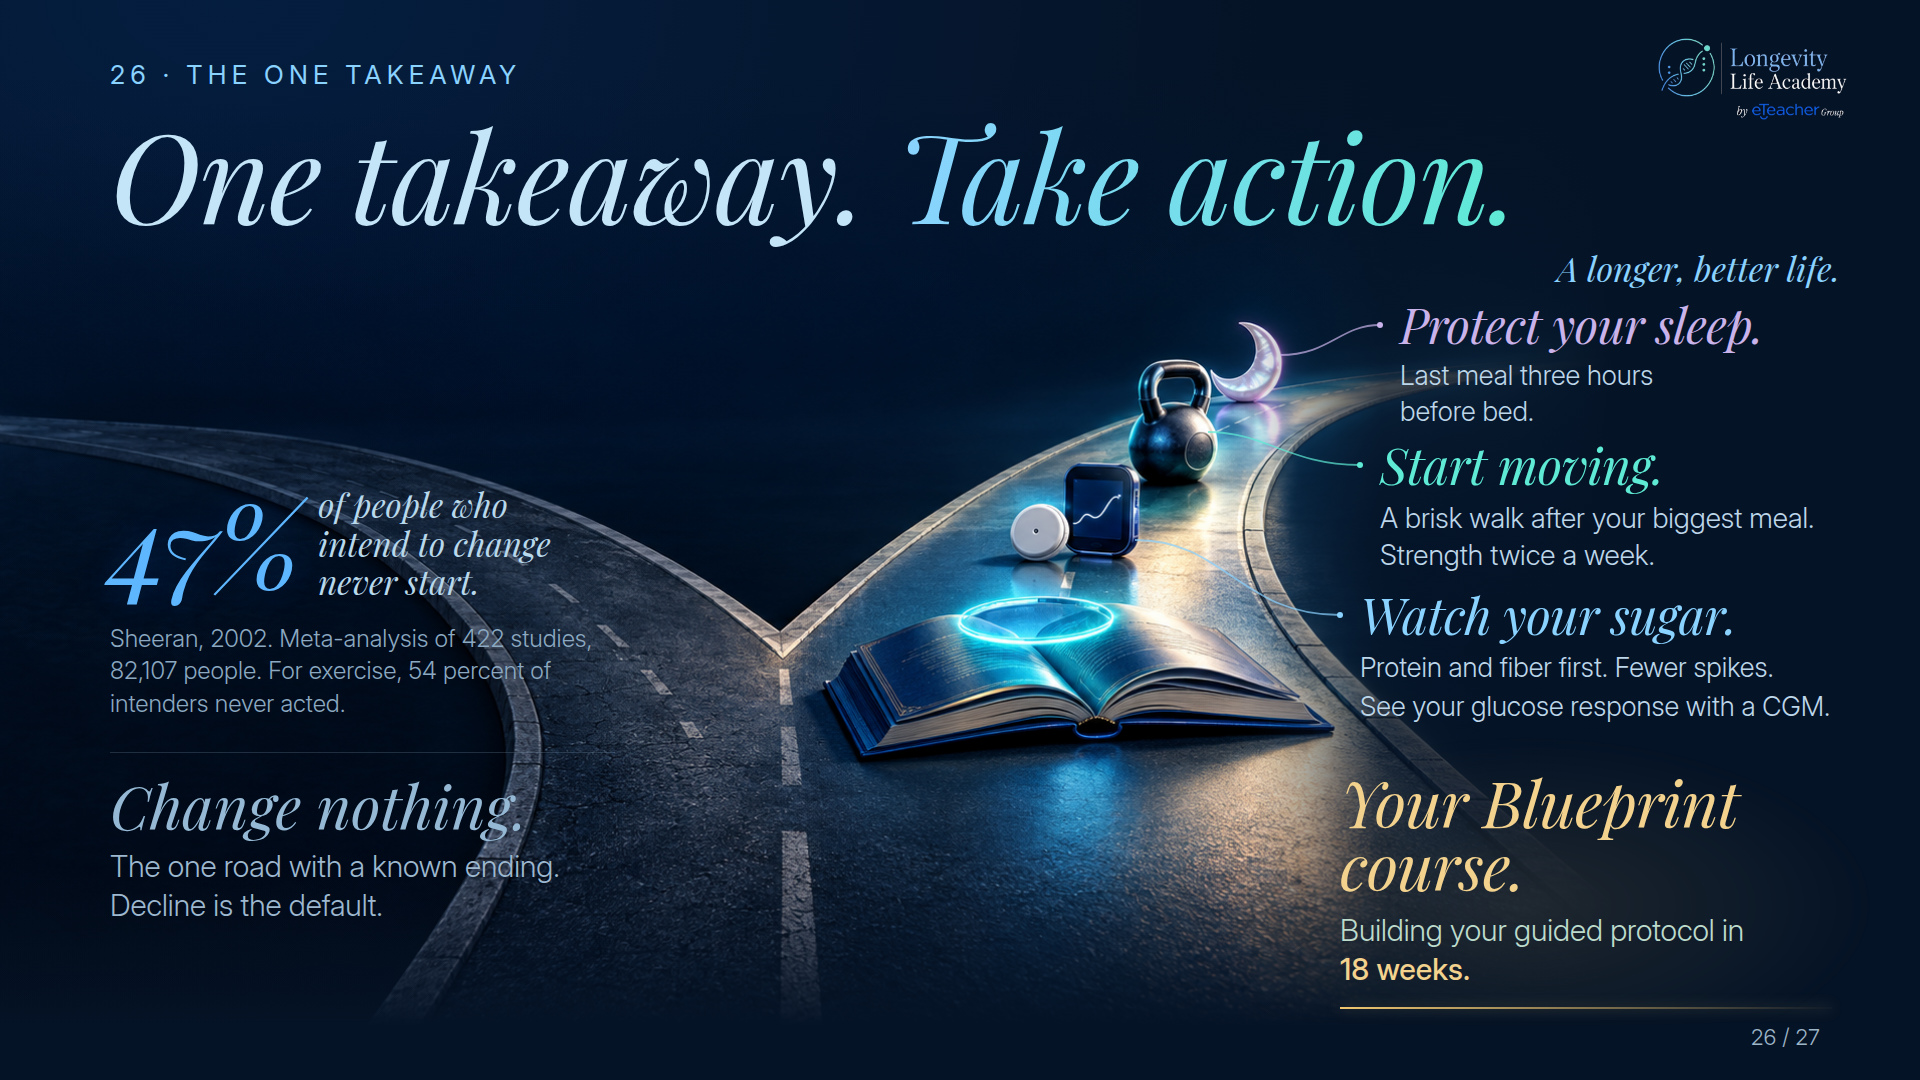
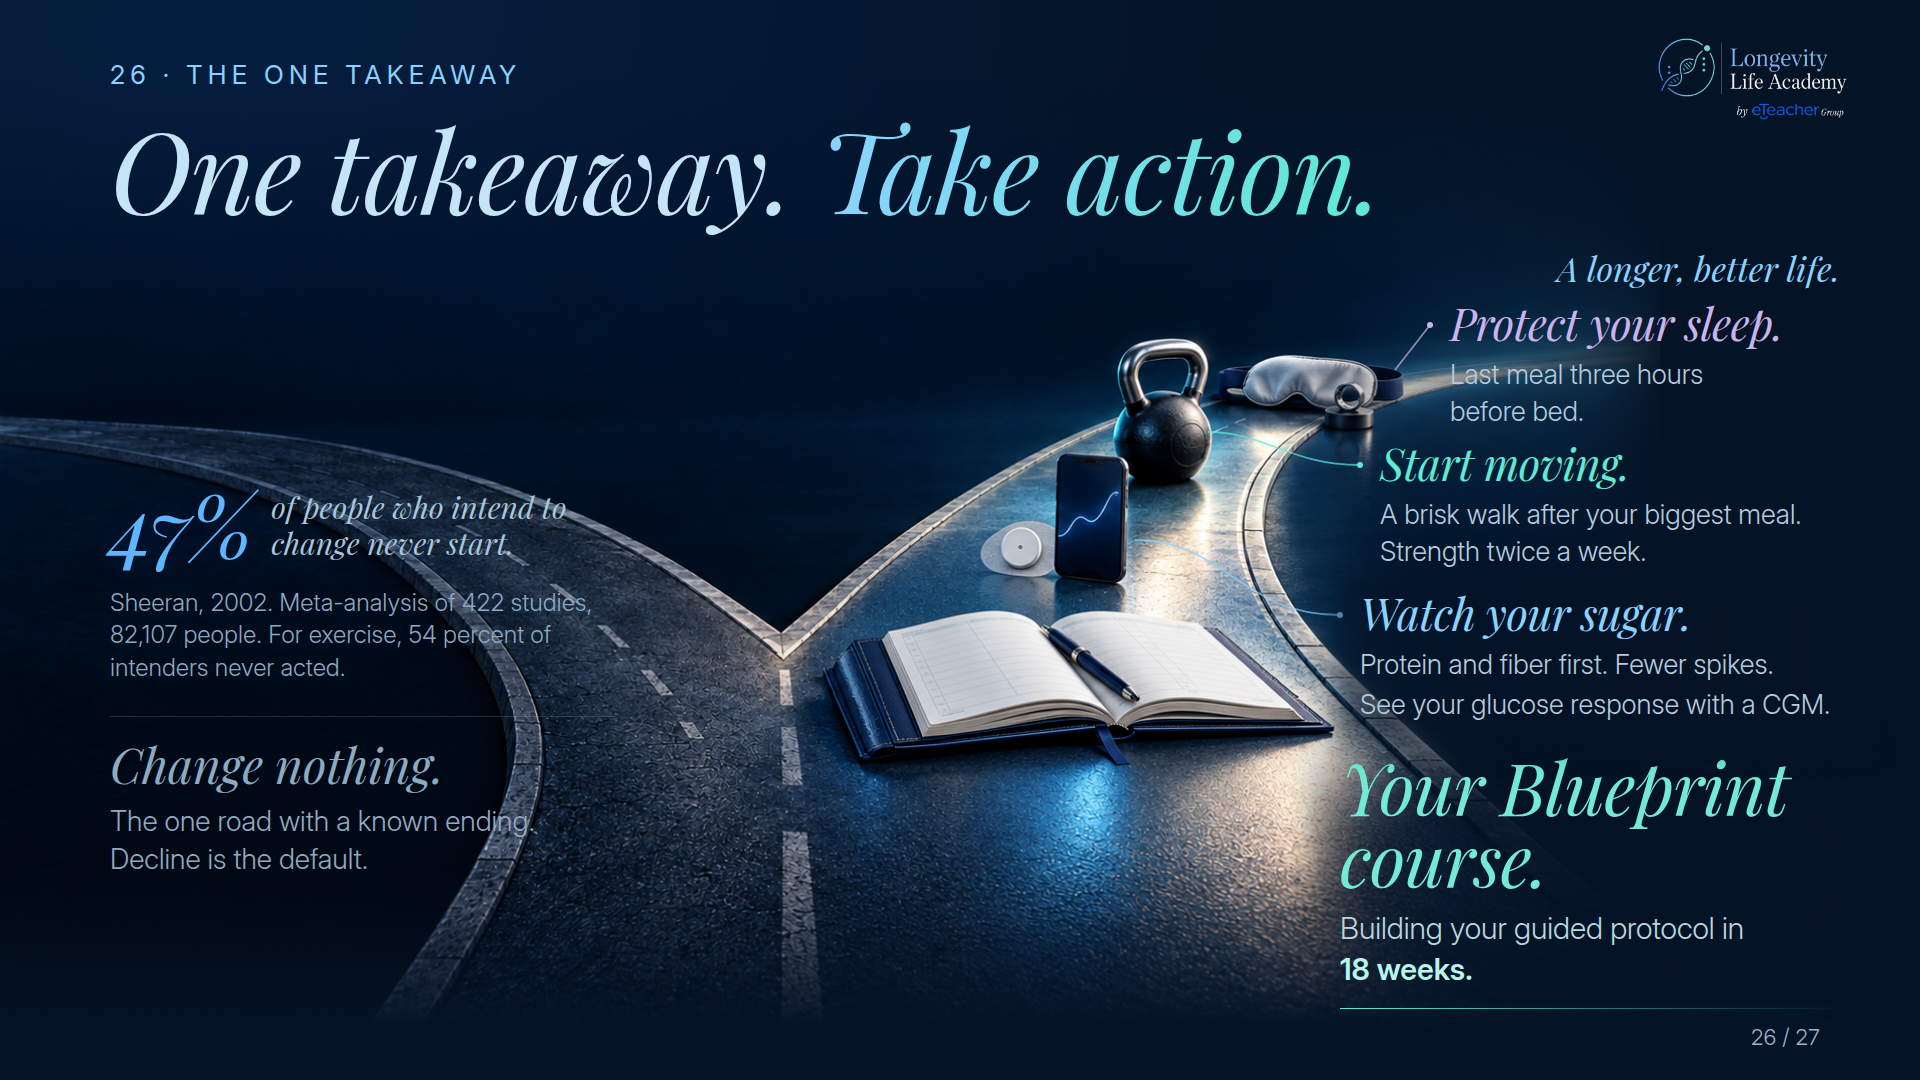
Use concrete longevity products, remove yellow type and strengthen course hierarchy

diff --git a/slide-canvas/julie/index.html b/slide-canvas/julie/index.html
@@ -59,14 +59,14 @@ textarea:focus{outline:none;border-color:#006EFF;box-shadow:0 0 0 3px rgba(0,110
 <aside class="note"><label for="c18">Your comment on slide 18</label><textarea id="c18" data-n="18" data-t="You don&#x27;t need a lab. You need a notebook." placeholder="Type here. It saves as you type."></textarea><div class="saved" id="v18"></div></aside></section><section class="slot" id="s19"><div class="left"><div class="num">19</div><h2>Test. Then buy.</h2><img class="main" src="../images-logo/github-round-10-25.jpg" alt=""><p class="why">The three tests to ask your doctor about: Vitamin D, Homocysteine, Red blood cell nutrient levels. Your disclosed list is spoken here.</p><div class="opts"><figure><img src="../images/claude-b-16.jpg" loading="lazy" alt=""><span>Option 2</span></figure><figure><img src="../images/github-deck2-dark-16.jpg" loading="lazy" alt=""><span>Option 3</span></figure></div></div>
 <aside class="note"><label for="c19">Your comment on slide 19</label><textarea id="c19" data-n="19" data-t="Test. Then buy." placeholder="Type here. It saves as you type."></textarea><div class="saved" id="v19"></div></aside></section><section class="slot" id="s20"><div class="left"><div class="num">20</div><h2>That&#x27;s the cake.</h2><img class="main" src="../images-logo/github-round-9-27.jpg" alt=""><p class="why">The whole cake, the only one cut.</p><div class="opts"><figure><img src="../images/github-r7-last-27.jpg" loading="lazy" alt=""><span>Option 2</span></figure></div></div>
 <aside class="note"><label for="c20">Your comment on slide 20</label><textarea id="c20" data-n="20" data-t="That&#x27;s the cake." placeholder="Type here. It saves as you type."></textarea><div class="saved" id="v20"></div></aside></section><section class="slot" id="s21"><div class="left"><div class="num">21</div><h2>Why. Intention. Resources.</h2><img class="main" src="../images-logo/github-deck1-dark-17.jpg" alt=""><p class="why">The three questions, and your close.</p><div class="opts"><figure><img src="../images/github-deck1-light-17.jpg" loading="lazy" alt=""><span>Option 2</span></figure><figure><img src="../images/claude-b-17.jpg" loading="lazy" alt=""><span>Option 3</span></figure></div></div>
-<aside class="note"><label for="c21">Your comment on slide 21</label><textarea id="c21" data-n="21" data-t="Why. Intention. Resources." placeholder="Type here. It saves as you type."></textarea><div class="saved" id="v21"></div></aside></section><section class="slot" id="s22"><div class="left"><div class="num">22</div><h2>One takeaway. Take action.</h2><img class="main" src="additional-take-action-20261026.png?v=composed-final" alt="One takeaway. Take action."><p class="why">Closing slide: Blueprint, sugar and CGM, movement, then sleep.</p></div><aside class="note"><label for="c22">Your comment on slide 22</label><textarea id="c22" data-n="22" data-t="One takeaway. Take action." placeholder="Type here. It saves as you type."></textarea><div class="saved" id="v22"></div></aside></section><div class="coming"><h3>Still to be built</h3><p class="why" style="margin-top:0;margin-bottom:10px">Two beats from the script are not on a slide yet and will be added in the next round:</p><ul><li>The sauna, your one piece of icing, as its own frame</li><li>It&#x27;s your life. Live it well., the end card for your close</li></ul></div>
+<aside class="note"><label for="c21">Your comment on slide 21</label><textarea id="c21" data-n="21" data-t="Why. Intention. Resources." placeholder="Type here. It saves as you type."></textarea><div class="saved" id="v21"></div></aside></section><section class="slot" id="s22"><div class="left"><div class="num">22</div><h2>One takeaway. Take action.</h2><img class="main" src="additional-take-action-20261026.png?v=real-products" alt="One takeaway. Take action."><p class="why">Closing slide: Blueprint, sugar and CGM, movement, then sleep.</p></div><aside class="note"><label for="c22">Your comment on slide 22</label><textarea id="c22" data-n="22" data-t="One takeaway. Take action." placeholder="Type here. It saves as you type."></textarea><div class="saved" id="v22"></div></aside></section><div class="coming"><h3>Still to be built</h3><p class="why" style="margin-top:0;margin-bottom:10px">Two beats from the script are not on a slide yet and will be added in the next round:</p><ul><li>The sauna, your one piece of icing, as its own frame</li><li>It&#x27;s your life. Live it well., the end card for your close</li></ul></div>
 </div>
 <button id="send" class="btn p" onclick="sendAll()">Send my comments</button>
 <div id="lb" onclick="this.classList.remove('on')"><img id="lbimg" src="" alt=""><div class="x">Close</div></div>
 <div id="play"><img id="pimg" src="" alt=""><div class="x" onclick="stopPlay()">Close, Esc</div><div class="c" id="pc"></div></div>
 <script>
 document.querySelectorAll('.opts img').forEach(im=>{im.loading='eager';im.removeAttribute('disabled');});
-const P=["../images-logo/github-deck2-dark-01.jpg","../images-logo/added-why-light.jpg","../images-logo/github-r7-last-06.jpg","../images-logo/github-deck2-dark-04.jpg","../images-logo/github-r4-v1-05.jpg","../images-logo/github-round-9-11.jpg","../images-logo/github-round-10-12.jpg","../images-logo/claude-b-07.jpg","../images-logo/claude-b-08.jpg","../images-logo/github-round-10-15.jpg","../images-logo/github-r6-v2-10.jpg","../images-logo/github-round-10-17.jpg","../images-logo/github-deck2-dark-11.jpg","../images-logo/github-r7-last-19.jpg","../images-logo/github-deck2-dark-13.jpg","../images-logo/claude-b-14.jpg","../images-logo/github-deck2-light-15.jpg","../images-logo/github-round-10-24.jpg","../images-logo/github-round-10-25.jpg","../images-logo/github-round-9-27.jpg","../images-logo/github-deck1-dark-17.jpg","additional-take-action-20261026.png?v=composed-final"];let k=0;
+const P=["../images-logo/github-deck2-dark-01.jpg","../images-logo/added-why-light.jpg","../images-logo/github-r7-last-06.jpg","../images-logo/github-deck2-dark-04.jpg","../images-logo/github-r4-v1-05.jpg","../images-logo/github-round-9-11.jpg","../images-logo/github-round-10-12.jpg","../images-logo/claude-b-07.jpg","../images-logo/claude-b-08.jpg","../images-logo/github-round-10-15.jpg","../images-logo/github-r6-v2-10.jpg","../images-logo/github-round-10-17.jpg","../images-logo/github-deck2-dark-11.jpg","../images-logo/github-r7-last-19.jpg","../images-logo/github-deck2-dark-13.jpg","../images-logo/claude-b-14.jpg","../images-logo/github-deck2-light-15.jpg","../images-logo/github-round-10-24.jpg","../images-logo/github-round-10-25.jpg","../images-logo/github-round-9-27.jpg","../images-logo/github-deck1-dark-17.jpg","additional-take-action-20261026.png?v=real-products"];let k=0;
 const T=[...document.querySelectorAll('textarea')];
 T.forEach(t=>{const key='julie-deck-c'+t.dataset.n;t.value=localStorage.getItem(key)||'';if(t.value)document.getElementById('v'+t.dataset.n).textContent='Saved';t.addEventListener('input',()=>{localStorage.setItem(key,t.value);document.getElementById('v'+t.dataset.n).textContent='Saved';});});
 function sendAll(){const lines=T.filter(t=>t.value.trim()).map(t=>'Slide '+t.dataset.n+', '+t.dataset.t+':\n'+t.value.trim());if(!lines.length){alert('No comments yet. Type into a box next to a slide first.');return;}const body=lines.join('\n\n')+'\n\n'+location.href;navigator.clipboard&&navigator.clipboard.writeText(body).catch(()=>{});location.href='mailto:gitter.omri@gita-agency.com?subject='+encodeURIComponent('Masterclass deck, my comments')+'&body='+encodeURIComponent(body);}

diff --git a/slide-canvas/julie/additional-take-action-source.html b/slide-canvas/julie/additional-take-action-source.html
@@ -6,41 +6,42 @@
 *{box-sizing:border-box;margin:0;padding:0}
 body{background:#040a16}
 .slide{position:relative;width:1920px;height:1080px;overflow:hidden;background:#051326;color:#bdd6e9;font:300 30px/1.32 Inter,sans-serif;-webkit-font-smoothing:antialiased}
-.art{position:absolute;left:-20px;top:80px;width:1680px;height:945px;background:url(closing-graphics/composed-action-road.png) center/cover no-repeat}
-.blend{position:absolute;inset:0;background:linear-gradient(90deg,rgba(5,19,38,.12),transparent 39%,transparent 65%,rgba(5,19,38,.78) 72%,#051326 84%),linear-gradient(180deg,#051326,rgba(5,19,38,.9) 10%,transparent 29%,transparent 80%,#051326 95%)}
+.art{position:absolute;left:-20px;top:80px;width:1680px;height:945px;background:url(closing-graphics/real-products-action-road.png) center/cover no-repeat}
+.blend{position:absolute;inset:0;background:linear-gradient(90deg,rgba(5,19,38,.12),transparent 39%,transparent 67%,rgba(5,19,38,.35) 74%,#051326 87%),linear-gradient(180deg,#051326,rgba(5,19,38,.9) 10%,transparent 29%,transparent 80%,#051326 95%)}
 .blue-light{position:absolute;inset:0;background:radial-gradient(ellipse at 12% 0,rgba(0,110,255,.12),transparent 44%);pointer-events:none}
 .brand-logo{position:absolute;right:70px;top:35px;width:195px;height:auto}
 .eye{position:absolute;left:110px;top:58px;color:#8ad2ff;font-size:26px;font-weight:400;letter-spacing:.2em}
-h1{position:absolute;left:110px;top:112px;font:italic 400 124px/.98 Playfair,serif;letter-spacing:-.012em;color:#c4e4f7}
+h1{position:absolute;left:110px;top:112px;font:italic 400 112px/1 Playfair,serif;letter-spacing:-.012em;color:#c4e4f7}
 h1 i{font-weight:400;background:linear-gradient(95deg,#8ad2ff,#5eead4);background-clip:text;-webkit-background-clip:text;color:transparent}
 .destination{position:absolute;right:80px;top:250px;font:italic 34px/1.1 Playfair,serif;color:#8ad2ff}
 .left-group{position:absolute;left:110px;top:485px;width:505px}
 .stat-row{display:flex;gap:20px;align-items:center}
-.stat-number{font:italic 400 112px/.9 Playfair,serif;letter-spacing:-.02em;color:#5eb6ff;text-shadow:0 0 32px rgba(0,110,255,.22)}
-.stat-caption{font:italic 33px/1.17 Playfair,serif;color:#b8d8ec;max-width:285px}
+.stat-number{font:italic 400 84px/.95 Playfair,serif;letter-spacing:-.02em;color:#5eb6ff;text-shadow:0 0 26px rgba(0,110,255,.16)}
+.stat-caption{font:italic 30px/1.2 Playfair,serif;color:#a9c6da;max-width:310px}
 .citation{font-size:24px;line-height:1.35;color:#8ca9c1;margin-top:22px;max-width:505px}
 .inaction{margin-top:32px;padding-top:22px;border-top:1px solid rgba(135,166,190,.23)}
-.inaction h2{font:italic 400 60px/1 Playfair,serif;color:#95b9d4}
-.inaction p{font-size:30px;line-height:1.3;color:#9db8cf;margin-top:12px;max-width:505px}
+.inaction h2{font:italic 400 48px/1.08 Playfair,serif;color:#8caac0}
+.inaction p{font-size:28px;line-height:1.35;color:#91aac0;margin-top:12px;max-width:505px}
 .leaders{position:absolute;inset:0;width:1920px;height:1080px;pointer-events:none}
 .waypoint{position:absolute}
-.waypoint h2{font:italic 400 50px/1 Playfair,serif;letter-spacing:-.012em}
-.waypoint p{font-size:28px;line-height:1.32;color:#bdd6e9;margin-top:10px}
+.waypoint h2{font:italic 400 44px/1.05 Playfair,serif;letter-spacing:-.012em}
+.waypoint p{font-size:27px;line-height:1.36;color:#b5ccdf;margin-top:11px}
 .waypoint .below{display:block;margin-top:3px}
-.sleep{left:1400px;top:300px;width:440px}
-.sleep h2{color:#c9b3ea;font-size:48px}
+.sleep{left:1450px;top:300px;width:390px}
+.sleep h2{color:#c9b3ea;font-size:44px}
 .sleep p{font-size:27px}
 .move{left:1380px;top:440px;width:460px}
 .move h2{color:#5eead4}
-.sugar{left:1360px;top:590px;width:480px}
+.sugar{left:1360px;top:590px;width:480px;isolation:isolate}
+.sugar:before{content:'';position:absolute;inset:-18px -25px -18px -25px;z-index:-1;background:linear-gradient(90deg,rgba(5,19,38,.65),rgba(5,19,38,.82));filter:blur(16px)}
 .sugar h2{color:#8ad2ff}
 .sugar p{font-size:27px}
-.course{left:1340px;top:770px;width:500px;isolation:isolate}
-.course h2{color:#f3d28e;font-size:64px;line-height:.99}
-.course p{font-size:30px;color:#bddbcc;margin-top:14px}
-.course p strong{font-weight:500;color:#f3d28e;white-space:nowrap}
-.course:before{content:'';position:absolute;inset:-30px -30px -25px -95px;z-index:-1;background:radial-gradient(ellipse at 45% 60%,rgba(240,199,112,.11),transparent 72%);filter:blur(7px)}
-.course:after{content:'';position:absolute;left:0;right:8px;bottom:-19px;height:2px;background:linear-gradient(90deg,#f0c770,rgba(240,199,112,.04));box-shadow:0 0 13px rgba(240,199,112,.35)}
+.course{left:1340px;top:750px;width:500px;isolation:isolate}
+.course h2{color:#73ead6;font-size:72px;line-height:1}
+.course p{font-size:30px;color:#b9d8de;margin-top:14px}
+.course p strong{font-weight:600;color:#b8f6eb;white-space:nowrap}
+.course:before{content:'';position:absolute;inset:-25px -30px -25px -30px;z-index:-1;background:radial-gradient(ellipse at 55% 50%,rgba(5,19,38,.94),rgba(5,19,38,.73) 58%,transparent 90%);filter:blur(12px)}
+.course:after{content:'';position:absolute;left:0;right:8px;bottom:-19px;height:1px;background:linear-gradient(90deg,#5eead4,rgba(94,234,212,.025));box-shadow:0 0 11px rgba(94,234,212,.26)}
 .pg{position:absolute;right:100px;bottom:28px;font-size:22px;color:#9eb6c8}
 </style></head><body>
 <main class="slide">
@@ -49,7 +50,7 @@ h1 i{font-weight:400;background:linear-gradient(95deg,#8ad2ff,#5eead4);backgroun
  <div class="eye">26 · THE ONE TAKEAWAY</div>
  <h1>One takeaway. <i>Take action.</i></h1>
  <div class="destination">A longer, better life.</div>
- <svg class="leaders" viewBox="0 0 1920 1080" aria-hidden="true"><g fill="none" stroke-width="1.8" opacity=".7"><path d="M1280 355C1330 355 1340 325 1380 325" stroke="#c9b3ea"/><path d="M1208 432C1265 432 1290 465 1360 465" stroke="#5eead4"/><path d="M1135 540C1225 540 1240 615 1340 615" stroke="#8ad2ff"/></g><g><circle cx="1380" cy="325" r="3" fill="#c9b3ea"/><circle cx="1360" cy="465" r="3" fill="#5eead4"/><circle cx="1340" cy="615" r="3" fill="#8ad2ff"/></g></svg>
+ <svg class="leaders" viewBox="0 0 1920 1080" aria-hidden="true"><g fill="none" stroke-width="1.8" opacity=".7"><path d="M1395 370L1430 325" stroke="#c9b3ea"/><path d="M1208 432C1265 432 1290 465 1360 465" stroke="#5eead4"/><path d="M1135 540C1225 540 1240 615 1340 615" stroke="#8ad2ff"/></g><g><circle cx="1430" cy="325" r="3" fill="#c9b3ea"/><circle cx="1360" cy="465" r="3" fill="#5eead4"/><circle cx="1340" cy="615" r="3" fill="#8ad2ff"/></g></svg>
  <section class="left-group">
   <div class="stat-row"><div class="stat-number">47%</div><div class="stat-caption">of people who intend to change never start.</div></div>
   <p class="citation">Sheeran, 2002. Meta-analysis of 422 studies, 82,107 people. For exercise, 54 percent of intenders never acted.</p>
